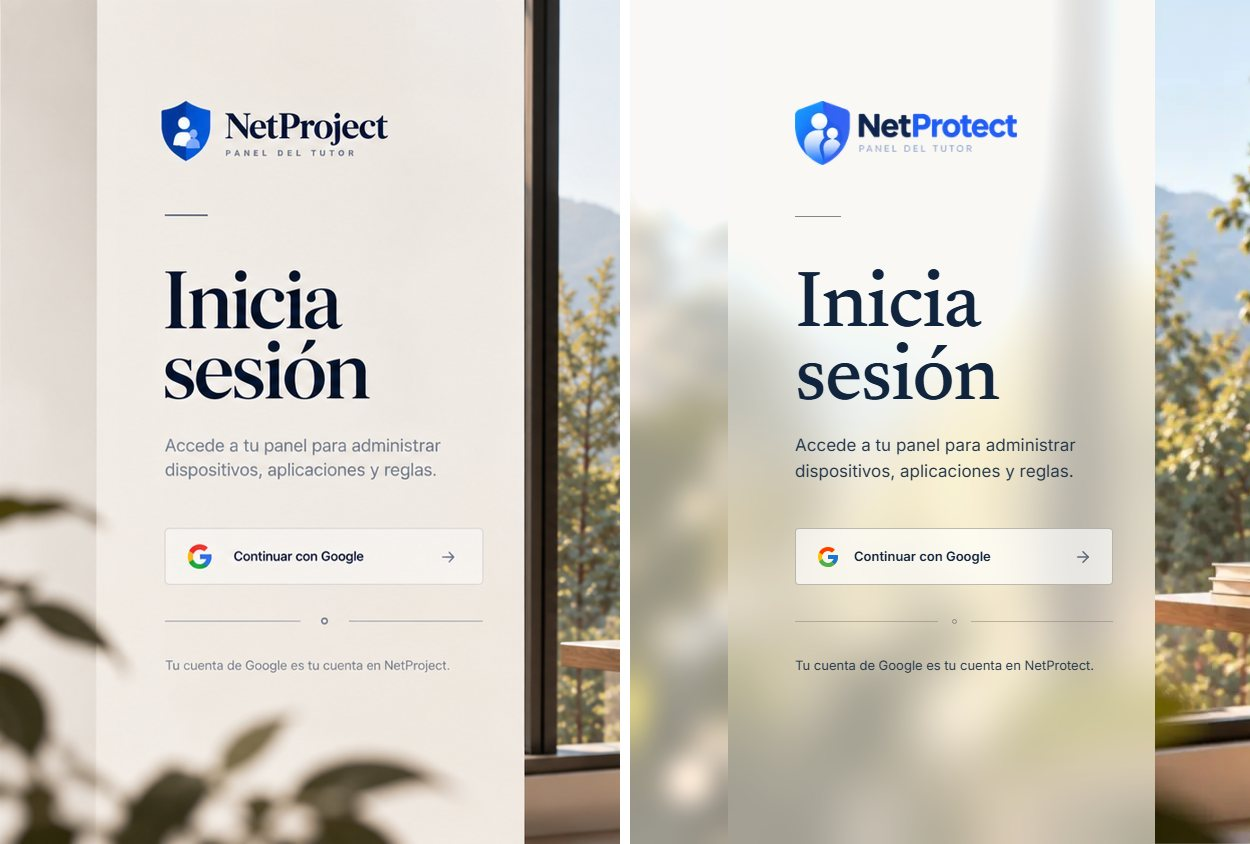
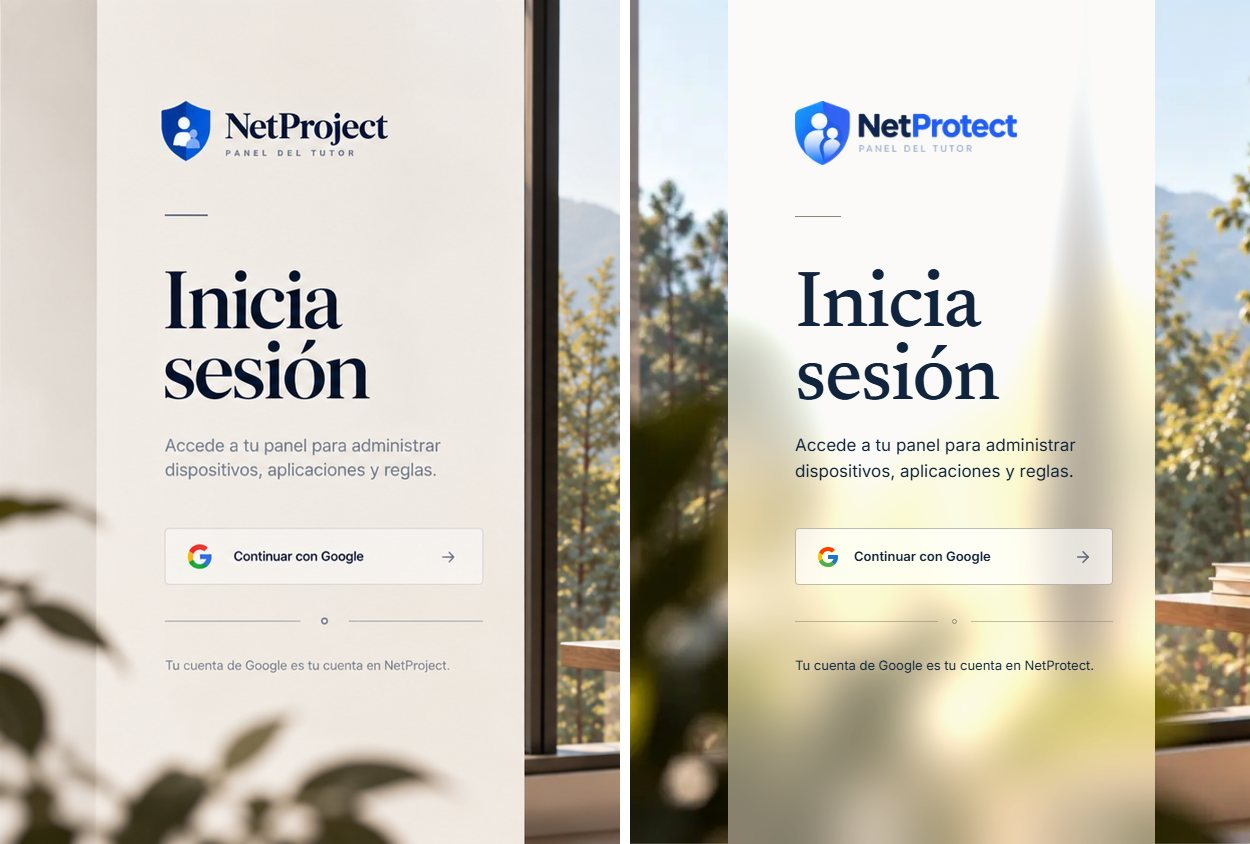
fix(web): panel del login mas transparente y franja izquierda sin velo (S60)
Se entendio mal la peticion anterior: el dueno queria que el panel donde esta el login fuera
mas transparente, no aclarar la franja de foto de su izquierda. Se retira el velo de esa
franja (el pseudo-elemento de .screen del commit anterior), que vuelve a ser la foto tal
cual: diferencia media de 1,9/255 con la foto sin tocar, ruido de compresion JPEG.

El panel pasa de 60 % a 42 % de crema en escritorio (de 75 % a 55 % en movil) con
brightness(2) sobre el fondo desenfocado: aclarar lo que hay detras es lo que permite un
velo fino sin que los arboles oscuros dejen el panel gris. Subtitulo y nota al pie pasan a
navy pleno, porque un gris suavizado ya no llegaba a 4,5:1 sobre un cristal tan fino.

Contraste medido con la foto real en el peor pixel de todo el bloque de contenido: al menos
4,6:1 en escritorio (1280x720 a 1920x1080) y 4,8:1 en la tarjeta movil.

diff --git a/frontend/src/components/login/LoginScreen.module.css b/frontend/src/components/login/LoginScreen.module.css
@@ -28,12 +28,12 @@
 }
 
 /* Frosted glass: the photograph shows through, blurred and lightened. Under this strip study.jpg is
-   a window full of dark trees, not the plain wall of the mockup, so a see-through panel alone turns
-   grey: `brightness(1.5)` lifts the backdrop to the mockup's mean luminance (0.74 vs 0.75) before the
-   60% cream veil. Measured on the real photograph at 1280x720 to 1920x1080, the worst pixel under
-   the strip gives the title ~5.8-6.1:1 and the small texts (92% navy) ~4.6-4.9:1. The narrow-screen
-   card lies over the dark hoodie instead, where 60% gave only ~4.35:1, so it uses a 75% veil
-   (~6.5:1) and the see-through 60% is declared again for the desktop strip below. */
+   a window full of dark trees, so a see-through panel alone turns grey: `brightness(2)` lifts the
+   backdrop before the cream veil, which is what allows a thin veil (42% on the desktop strip)
+   without losing legibility. All text on it is full navy. Measured on the real photograph, the
+   worst pixel under the whole content block gives at least 4.6:1 at 1280x720, 1366x768, 1500x844
+   and 1920x1080. The narrow-screen card lies over the dark hoodie instead and needs a 55% veil
+   (4.7:1 or better); the thinner desktop veil is declared again in the media query below. */
 .panel {
   position: relative;
   z-index: 1;
@@ -42,9 +42,9 @@
   margin: var(--space-4);
   padding: var(--space-8) var(--space-6);
   border-radius: var(--radius-lg);
-  background: color-mix(in srgb, var(--color-bg) 75%, transparent);
-  -webkit-backdrop-filter: blur(28px) brightness(1.5) saturate(0.9);
-  backdrop-filter: blur(28px) brightness(1.5) saturate(0.9);
+  background: color-mix(in srgb, var(--color-bg) 55%, transparent);
+  -webkit-backdrop-filter: blur(28px) brightness(2) saturate(0.9);
+  backdrop-filter: blur(28px) brightness(2) saturate(0.9);
 }
 
 /* No backdrop-filter (old browsers): without the blur the photograph would run through the text,
@@ -89,7 +89,7 @@
   margin: var(--space-4) 0 0;
   font-size: clamp(var(--text-md), 0.9rem + 0.25vw, 17px);
   line-height: 1.5;
-  color: color-mix(in srgb, var(--color-navy) 92%, var(--color-bg));
+  color: var(--color-navy); /* full navy: the glass is thin, a softer grey would not reach 4.5:1 */
 }
 
 .action {
@@ -136,7 +136,7 @@
   margin: 32px 0 0;
   font-size: var(--text-sm);
   line-height: 1.5;
-  color: color-mix(in srgb, var(--color-navy) 92%, var(--color-bg));
+  color: var(--color-navy);
 }
 
 @media (min-width: 1024px) {
@@ -146,24 +146,10 @@
     padding-top: 0;
   }
 
-  /* A full-height glass strip, inset from the left edge so a band of photograph frames it. */
-  /* The band of photograph left of the glass reads as plain wall in the mockup, but here it is
-     the window with the trees. A lighter, softer veil brings it to the mockup's tone (mean
-     luminance 0.61 against 0.59, measured on the reference and on the photograph). It is as wide as
-     the panel's left margin, so it needs no markup. */
-  .screen::before {
-    content: "";
-    position: absolute;
-    inset: 0 auto 0 0;
-    z-index: 1;
-    width: clamp(var(--space-6), 6.5vw, 120px);
-    background: color-mix(in srgb, var(--color-bg) 55%, transparent);
-    -webkit-backdrop-filter: blur(12px) brightness(1.5);
-    backdrop-filter: blur(12px) brightness(1.5);
-    pointer-events: none;
-  }
+  /* A full-height glass strip, inset from the left edge so a band of the untouched photograph
+     frames it (that band is left exactly as the photograph is: no veil over it).
 
-  /* Proportions read off the mockup (1500px wide): the strip is 28.5% wide and starts at 6.5%; the
+     Proportions read off the mockup (1500px wide): the strip is 28.5% wide and starts at 6.5%; the
      content sits 4.5% in from its left edge and 2.8% from the right, so it is ~21% wide. The extra
      bottom padding lifts the block a little above the vertical centre, as in the mockup. */
   .panel {
@@ -174,7 +160,7 @@
     padding: clamp(var(--space-8), 12vh, 160px) 2.8vw var(--space-12) clamp(var(--space-8), 4.5vw, 84px);
     align-items: flex-start;
     border-radius: 0;
-    background: color-mix(in srgb, var(--color-bg) 60%, transparent);
+    background: color-mix(in srgb, var(--color-bg) 42%, transparent);
   }
 
   .content {

diff --git a/docs/sprint-60.md b/docs/sprint-60.md
@@ -118,17 +118,24 @@ escribir). Un commit por unidad de trabajo, con el porqué. Se marca solo con ev
   `line-height: .92`, peso 500 (se añade a `layout.tsx`: el navegador solo descarga los pesos que se usan); botón de Google
   de 14 px, esquinas pequeñas y placa clara semitransparente con borde suave (el control lo identifican el relleno, la marca
   de Google, la etiqueta y la flecha, no solo el borde); huecos del bloque ajustados hasta coincidir con la referencia.
-  **Contraste**, medido sobre la foto real desenfocada y aclarada bajo el panel (peor píxel): escritorio 1280×720 a 1920×1080,
-  título 5,8–6,1:1 y textos pequeños (navy al 92 %, `#23344b`) 4,6–4,9:1; móvil con el 60 % daba 4,35:1 (no cumplía) y por eso
-  usa el 75 % (6,5:1). Antes, subtítulo y nota al pie usaban `--color-text-muted` (3,35:1, tampoco cumplía sobre el cristal).
+  **Tercera pasada, malentendido corregido:** el dueño pedía que el **panel del login** fuera más transparente, no que se
+  aclarase la franja de foto de su izquierda. Se retira el velo de esa franja (`.screen::before`, commit `11179d5`): vuelve a
+  ser la foto tal cual (diferencia media de 1,9/255 entre el render y la foto sin tocar, es ruido de compresión JPEG). El
+  panel pasa a un velo de crema del **42 %** en escritorio (antes 60 %) y **55 %** en móvil (antes 75 %), con
+  `backdrop-filter: blur(28px) brightness(2) saturate(0.9)`; el aclarado ×2 sobre el fondo es lo que permite un velo fino.
+  Para eso, subtítulo y nota al pie pasan de un navy suavizado a `--color-navy` pleno.
+  **Contraste final**, medido sobre la foto real desenfocada y aclarada, en el peor píxel de todo el bloque de contenido y
+  con texto navy pleno: escritorio ≥ 4,6:1 en 1280×720, 1366×768, 1500×844 y 1920×1080; tarjeta móvil 4,8–4,9:1 en 390×844,
+  414×896 y 520×900. (Primera medida con el 60 %: textos suaves a 4,35:1 en móvil, no cumplían; con `--color-text-muted`,
+  3,35:1.) Luminosidad media del panel renderizado: 0,758 frente a 0,750 de la referencia.
   Evidencia: capturas de Chrome sin interfaz sobre el `web` reconstruido, en `docs/redesign/s60/`: `login-1500.jpg`,
   `login-520.jpg` y `login-vs-mockup.jpg` (referencia a la izquierda, resultado a la derecha, recorte del panel). Chrome no
-  admite ventanas de menos de ~500 px, así que no hay captura a 390 px. `eslint` y `tsc` limpios.
+  admite ventanas de menos de ~500 px, así que no hay captura a 390 px. `eslint` limpio.
   **Diferencias que se mantienen:** el logo es el oficial (la referencia dibuja un wordmark serif propio y escribe
-  «NetProject»); la franja izquierda, aclarada a petición del dueño (velo del 55 % con desenfoque de 12 px en `.screen::before`,
-  luminosidad media 0,604 en el render real frente a 0,590 de la referencia), ya no muestra los árboles nítidos pero
-  conserva un tinte verdoso de la foto en lugar de pared lisa; la tarjeta móvil tapa la cara del
-  niño (no se ajustó `object-position`). **Pendiente:** verlo en un teléfono o a 390 px reales.
+  «NetProject»); la franja izquierda conserva los árboles de la foto en lugar de la pared lisa del mockup (decisión del
+  dueño: dejarla original); la tarjeta móvil tapa la cara del niño (no se ajustó `object-position`). **Pendiente:** verlo
+  en un teléfono o a 390 px reales. El contraste de 4,5:1 del bloque completo se midió sobre la foto, no sobre píxeles
+  de pantalla en un navegador a otros zooms o con otro tamaño de fuente del sistema.
 - [ ] T8 — Verificación y cierre: `npm run lint && npm run build` y e2e vía `verifier`, `docs/sprint-60-evidence.md`,
   `/cerrar-sprint 60`.
 
